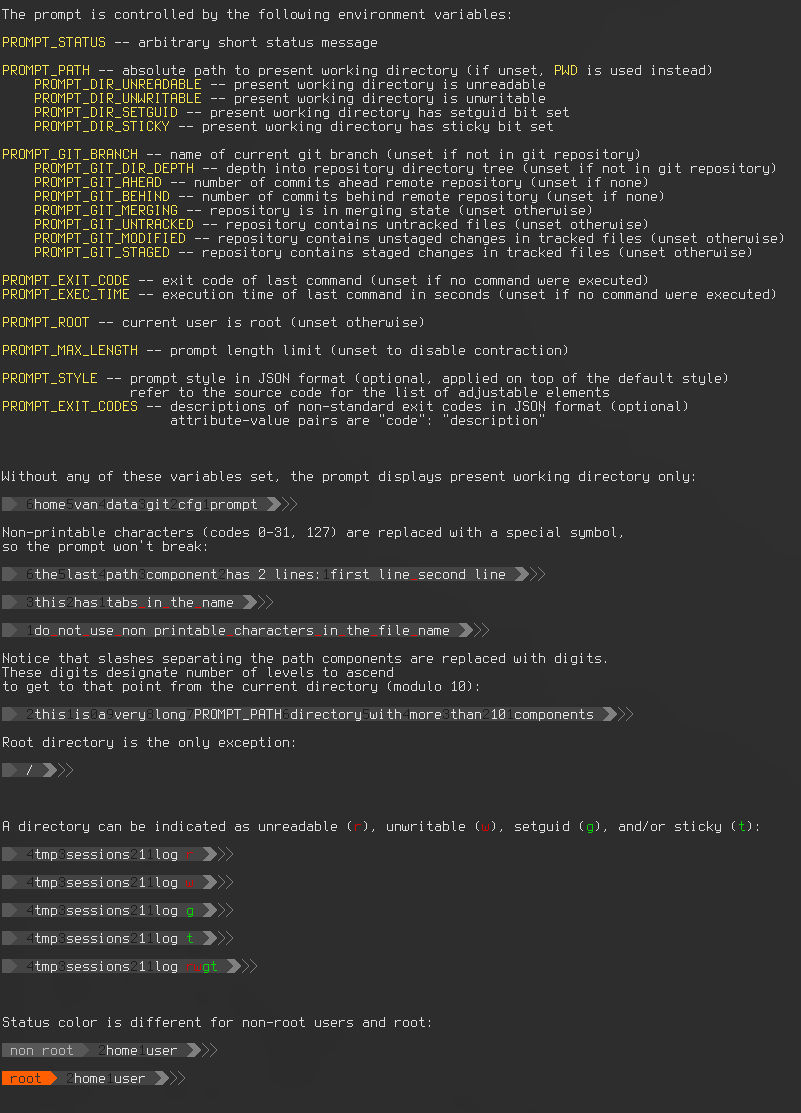
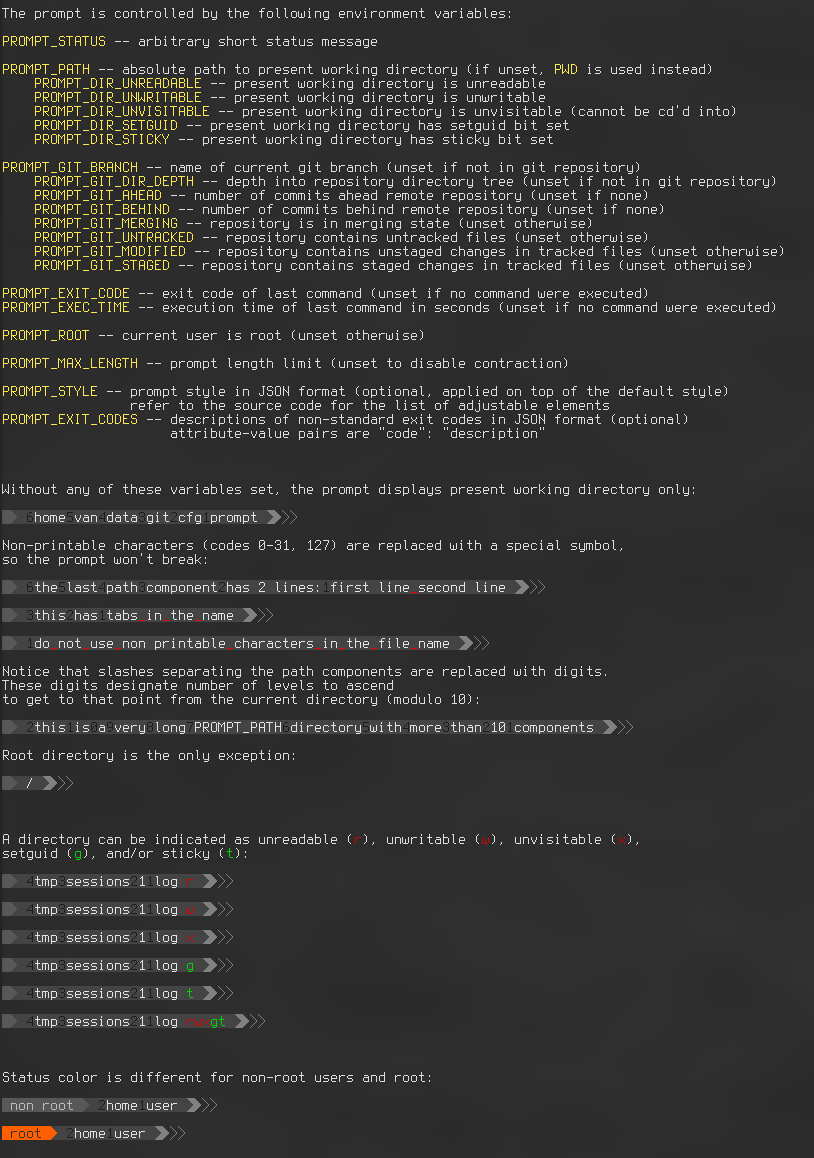
feat: support $PROMPT_DIR_UNVISITABLE and don't rely on `cd` to $PROMPT_PATH

diff --git a/prompt.py b/prompt.py
@@ -19,6 +19,7 @@ PROMPT_STYLE = {
         'ch_path_nonprint': "_",
         'ch_path_dir_unreadable': "r",
         'ch_path_dir_unwritable': "w",
+        'ch_path_dir_unvisitable': "x",
         'ch_path_dir_setguid': "g",
         'ch_path_dir_sticky': "t",
 
@@ -97,6 +98,7 @@ def parse(environ: dict) -> AttributeDict:
     prompt.path = environ['PROMPT_PATH'] if 'PROMPT_PATH' in environ else environ['PWD']
     prompt.path_dir_unreadable = 'PROMPT_DIR_UNREADABLE' in environ
     prompt.path_dir_unwritable = 'PROMPT_DIR_UNWRITABLE' in environ
+    prompt.path_dir_unvisitable = 'PROMPT_DIR_UNVISITABLE' in environ
     prompt.path_dir_setguid = 'PROMPT_DIR_SETGUID' in environ
     prompt.path_dir_sticky = 'PROMPT_DIR_STICKY' in environ
 
@@ -273,6 +275,7 @@ def visualize(prompt: AttributeDict) -> str:
     assert len(prompt.style.ch_path_nonprint) == 1
     assert len(prompt.style.ch_path_dir_unreadable) == 1
     assert len(prompt.style.ch_path_dir_unwritable) == 1
+    assert len(prompt.style.ch_path_dir_unvisitable) == 1
     assert len(prompt.style.ch_path_dir_setguid) == 1
     assert len(prompt.style.ch_path_dir_sticky) == 1
 
@@ -288,7 +291,7 @@ def visualize(prompt: AttributeDict) -> str:
         length += 1 + 1 + 1 + 1 # triangle, space, slash, space
 
     length_dir_attributes = int(prompt.path_dir_unreadable) + int(prompt.path_dir_unwritable) + \
-            int(prompt.path_dir_setguid) + int(prompt.path_dir_sticky) # char, char, char, char
+            int(prompt.path_dir_unvisitable) + int(prompt.path_dir_setguid) + int(prompt.path_dir_sticky) # char, char, char, char, char
     if length_dir_attributes > 0:
         length_dir_attributes += 1 # space
         length += length_dir_attributes
@@ -454,8 +457,8 @@ def visualize(prompt: AttributeDict) -> str:
     prompt_str += " "
 
     if prompt.path_dir_unreadable or prompt.path_dir_unwritable \
-            or prompt.path_dir_setguid or prompt.path_dir_sticky:
-                if prompt.path_dir_unreadable or prompt.path_dir_unwritable:
+            or prompt.path_dir_unvisitable or prompt.path_dir_setguid or prompt.path_dir_sticky:
+                if prompt.path_dir_unreadable or prompt.path_dir_unwritable or prompt.path_dir_unvisitable:
                     prompt_str += color1(prompt.style.col_path_noperm_fg)
 
                     if prompt.path_dir_unreadable:
@@ -463,6 +466,9 @@ def visualize(prompt: AttributeDict) -> str:
 
                     if prompt.path_dir_unwritable:
                         prompt_str += prompt.style.ch_path_dir_unwritable
+
+                    if prompt.path_dir_unvisitable:
+                        prompt_str += prompt.style.ch_path_dir_unvisitable
 
                 if prompt.path_dir_setguid or prompt.path_dir_sticky:
                     prompt_str += color1(prompt.style.col_path_perm_fg)
